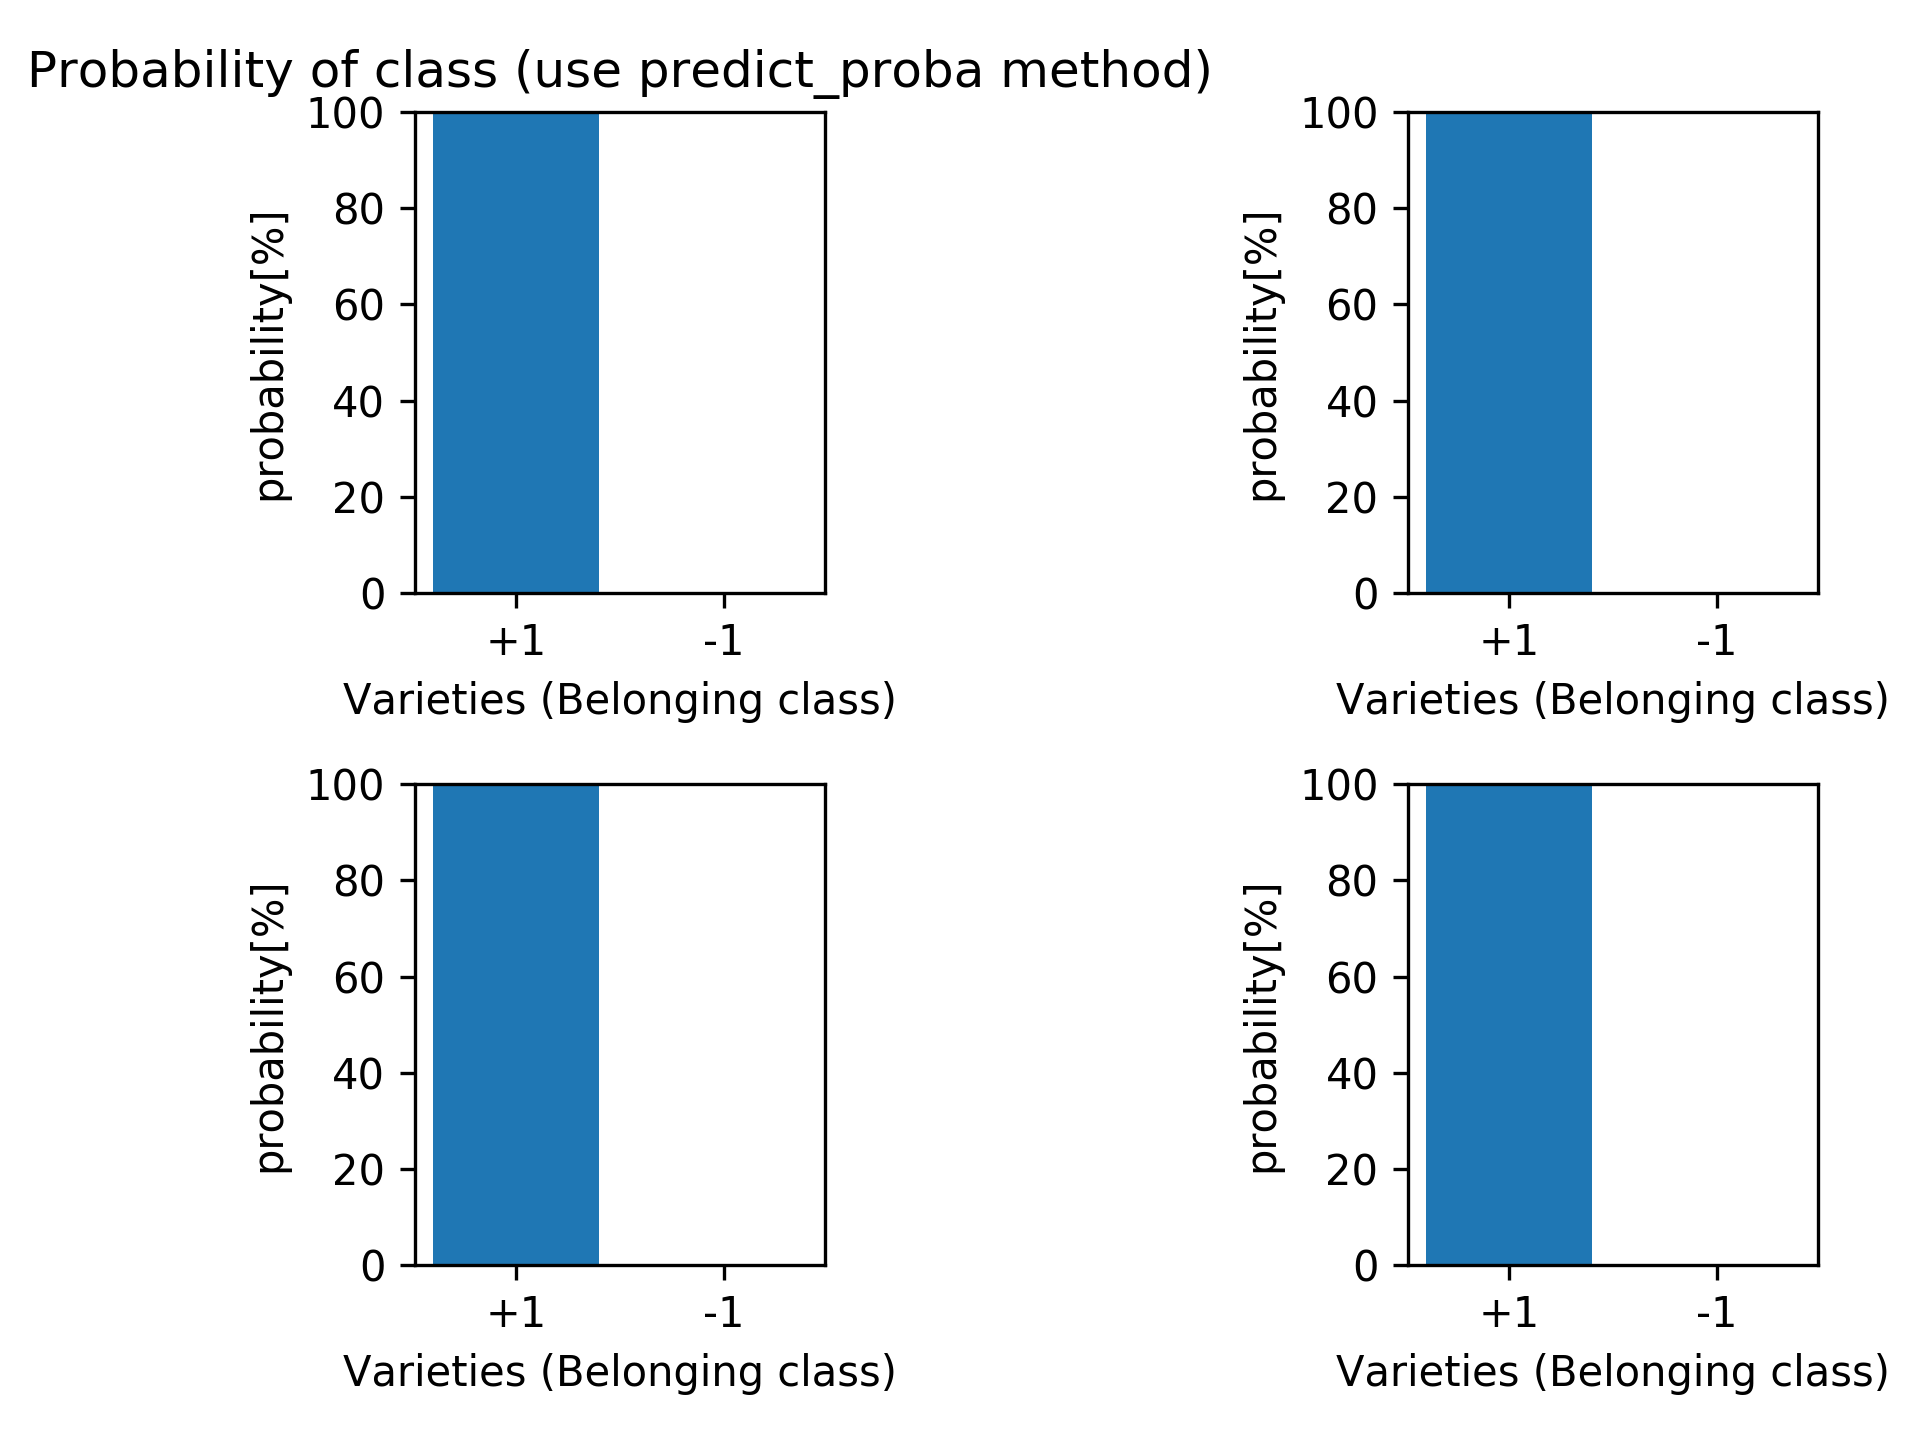
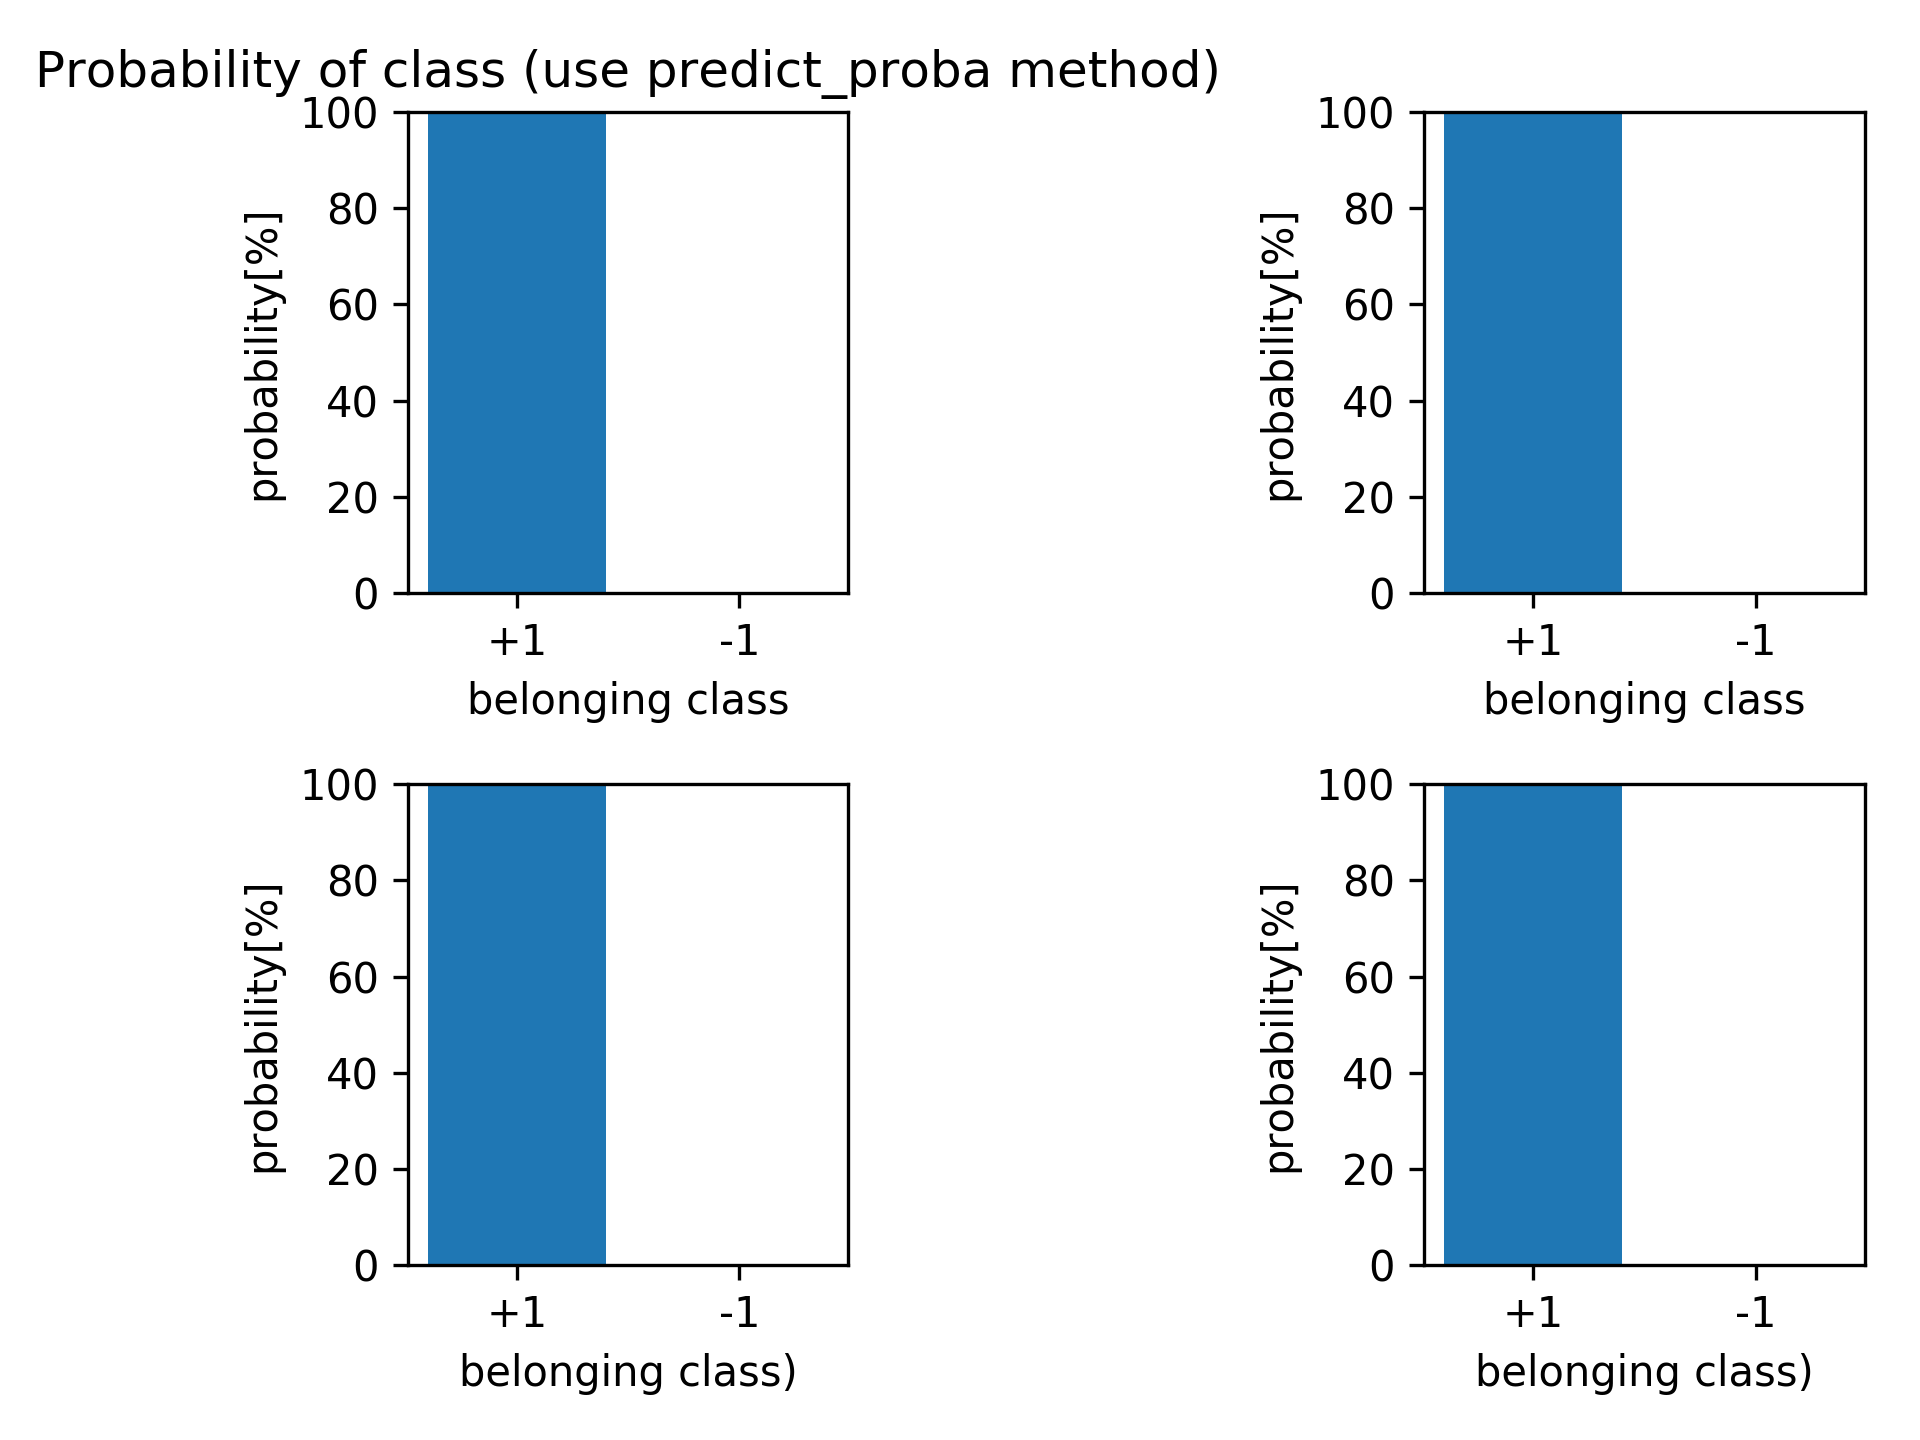
Add files via upload

diff --git a/SVM_scikit-learn/main2.py b/SVM_scikit-learn/main2.py
@@ -5,7 +5,7 @@ import numpy
 import matplotlib.pyplot as plt
 
 # scikit-learn ライブラリ関連
-from sklearn import datasets                            # 
+#from sklearn import datasets                            # 
 #from sklearn.cross_validation import train_test_split  # scikit-learn の train_test_split関数の old-version
 from sklearn.model_selection import train_test_split    # scikit-learn の train_test_split関数の new-version
 from sklearn.preprocessing import StandardScaler        # scikit-learn の preprocessing モジュールの StandardScaler クラス
@@ -175,16 +175,16 @@ def main():
     # 識別率を計算＆出力
     #-------------------------------
     y_predict = kernelSVM1.predict( X_test_std )
-
+     
+    print("<テストデータの識別結果>")
     # 誤分類のサンプル数を出力
-    print( 'Misclassified samples: %d' % (y_test != y_predict).sum() )  # %d:10進数, string % data :文字とデータ（値）の置き換え
+    print( "誤識別数 [Misclassified samples] : %d" % (y_test != y_predict).sum() )  # %d:10進数, string % data :文字とデータ（値）の置き換え
 
     # 分類の正解率を出力
-    print( 'Accuracy: %.2f' % accuracy_score(y_test, y_predict) )
+    print( "正解率 [Accuracy] : %.2f" % accuracy_score(y_test, y_predict) )
 
     #--------------------------------------------------------------------------------------------------------
     # predict_proba() 関数を使用して、指定したサンプルのクラスの所属関係を予想
-    # 戻り値は、サンプルが Iris-Setosa, Iris-Versicolor, Iris-Virginica に所属する確率をこの順で表している.
     #--------------------------------------------------------------------------------------------------------
     pre0 = kernelSVM1.predict_proba( X_test_std[0, :].reshape(1, -1) )   # 0番目のテストデータをreshap でタプル化して渡す
     pre1 = kernelSVM1.predict_proba( X_test_std[1, :].reshape(1, -1) )   # 1番目のテストデータをreshap でタプル化して渡す
@@ -197,7 +197,7 @@ def main():
     print("サンプル3の所属クラス確率 [%] :", pre3[0]*100 )
 
     #------------------------------------------------------------------------
-    # 各々のサンプルの所属クラスの図示 ["Setosa","Versicolor","Virginica"]
+    # 各々のサンプルの所属クラスの図示
     #------------------------------------------------------------------------
     # 現在の図をクリア
     plt.clf()
@@ -205,7 +205,7 @@ def main():
     # 所属クラスの確率を棒グラフ表示(1,1)
     plt.subplot(2,2,1)  # plt.subplot(行数, 列数, 何番目のプロットか)
     plt.title("Probability of class (use predict_proba method)")
-    plt.xlabel("Varieties (Belonging class)")   # label x-axis
+    plt.xlabel("belonging class")               # label x-axis
     plt.ylabel("probability[%]")                # label y-axis
     plt.ylim( 0,100 )                           # y軸の範囲(0~100)
     plt.legend(loc = "upper left")              # 凡例    
@@ -220,7 +220,7 @@ def main():
     
     # 所属クラスの確率を棒グラフ表示(1,2)
     plt.subplot(2,2,2)
-    plt.xlabel("Varieties (Belonging class)")   # label x-axis
+    plt.xlabel("belonging class")               # label x-axis
     plt.ylabel("probability[%]")                # label y-axis
     plt.ylim( 0,100 )                           # y軸の範囲(0~100)
     plt.bar(
@@ -228,11 +228,11 @@ def main():
         height  = pre0[0]*100,
         tick_label = ["+1","-1"]
     )             
-    plt.tight_layout()                  # グラフ同士のラベルが重ならない程度にグラフを小さくする。
+    plt.tight_layout()                          # グラフ同士のラベルが重ならない程度にグラフを小さくする。
 
     # 所属クラスの確率を棒グラフ表示(2,1)
     plt.subplot(2,2,3)
-    plt.xlabel("Varieties (Belonging class)")   # label x-axis
+    plt.xlabel("belonging class)")              # label x-axis
     plt.ylabel("probability[%]")                # label y-axis
     plt.ylim( 0,100 )                           # y軸の範囲(0~100)
     plt.bar(
@@ -240,11 +240,11 @@ def main():
         height  = pre0[0]*100,
         tick_label = ["+1","-1"]
     )             
-    plt.tight_layout()                  # グラフ同士のラベルが重ならない程度にグラフを小さくする。
+    plt.tight_layout()                          # グラフ同士のラベルが重ならない程度にグラフを小さくする。
 
     # 所属クラスの確率を棒グラフ表示(2,1)
     plt.subplot(2,2,4)
-    plt.xlabel("Varieties (Belonging class)")   # label x-axis
+    plt.xlabel("belonging class)")              # label x-axis
     plt.ylabel("probability[%]")                # label y-axis
     plt.ylim( 0,100 )                           # y軸の範囲(0~100)
     plt.bar(
@@ -252,7 +252,7 @@ def main():
         height  = pre0[0]*100,
         tick_label = ["+1","-1"]
     )             
-    plt.tight_layout()                  # グラフ同士のラベルが重ならない程度にグラフを小さくする。
+    plt.tight_layout()                          # グラフ同士のラベルが重ならない程度にグラフを小さくする。
 
     # 図の保存＆表示
     plt.savefig("./SVM_scikit-learn_4.png", dpi=300)
